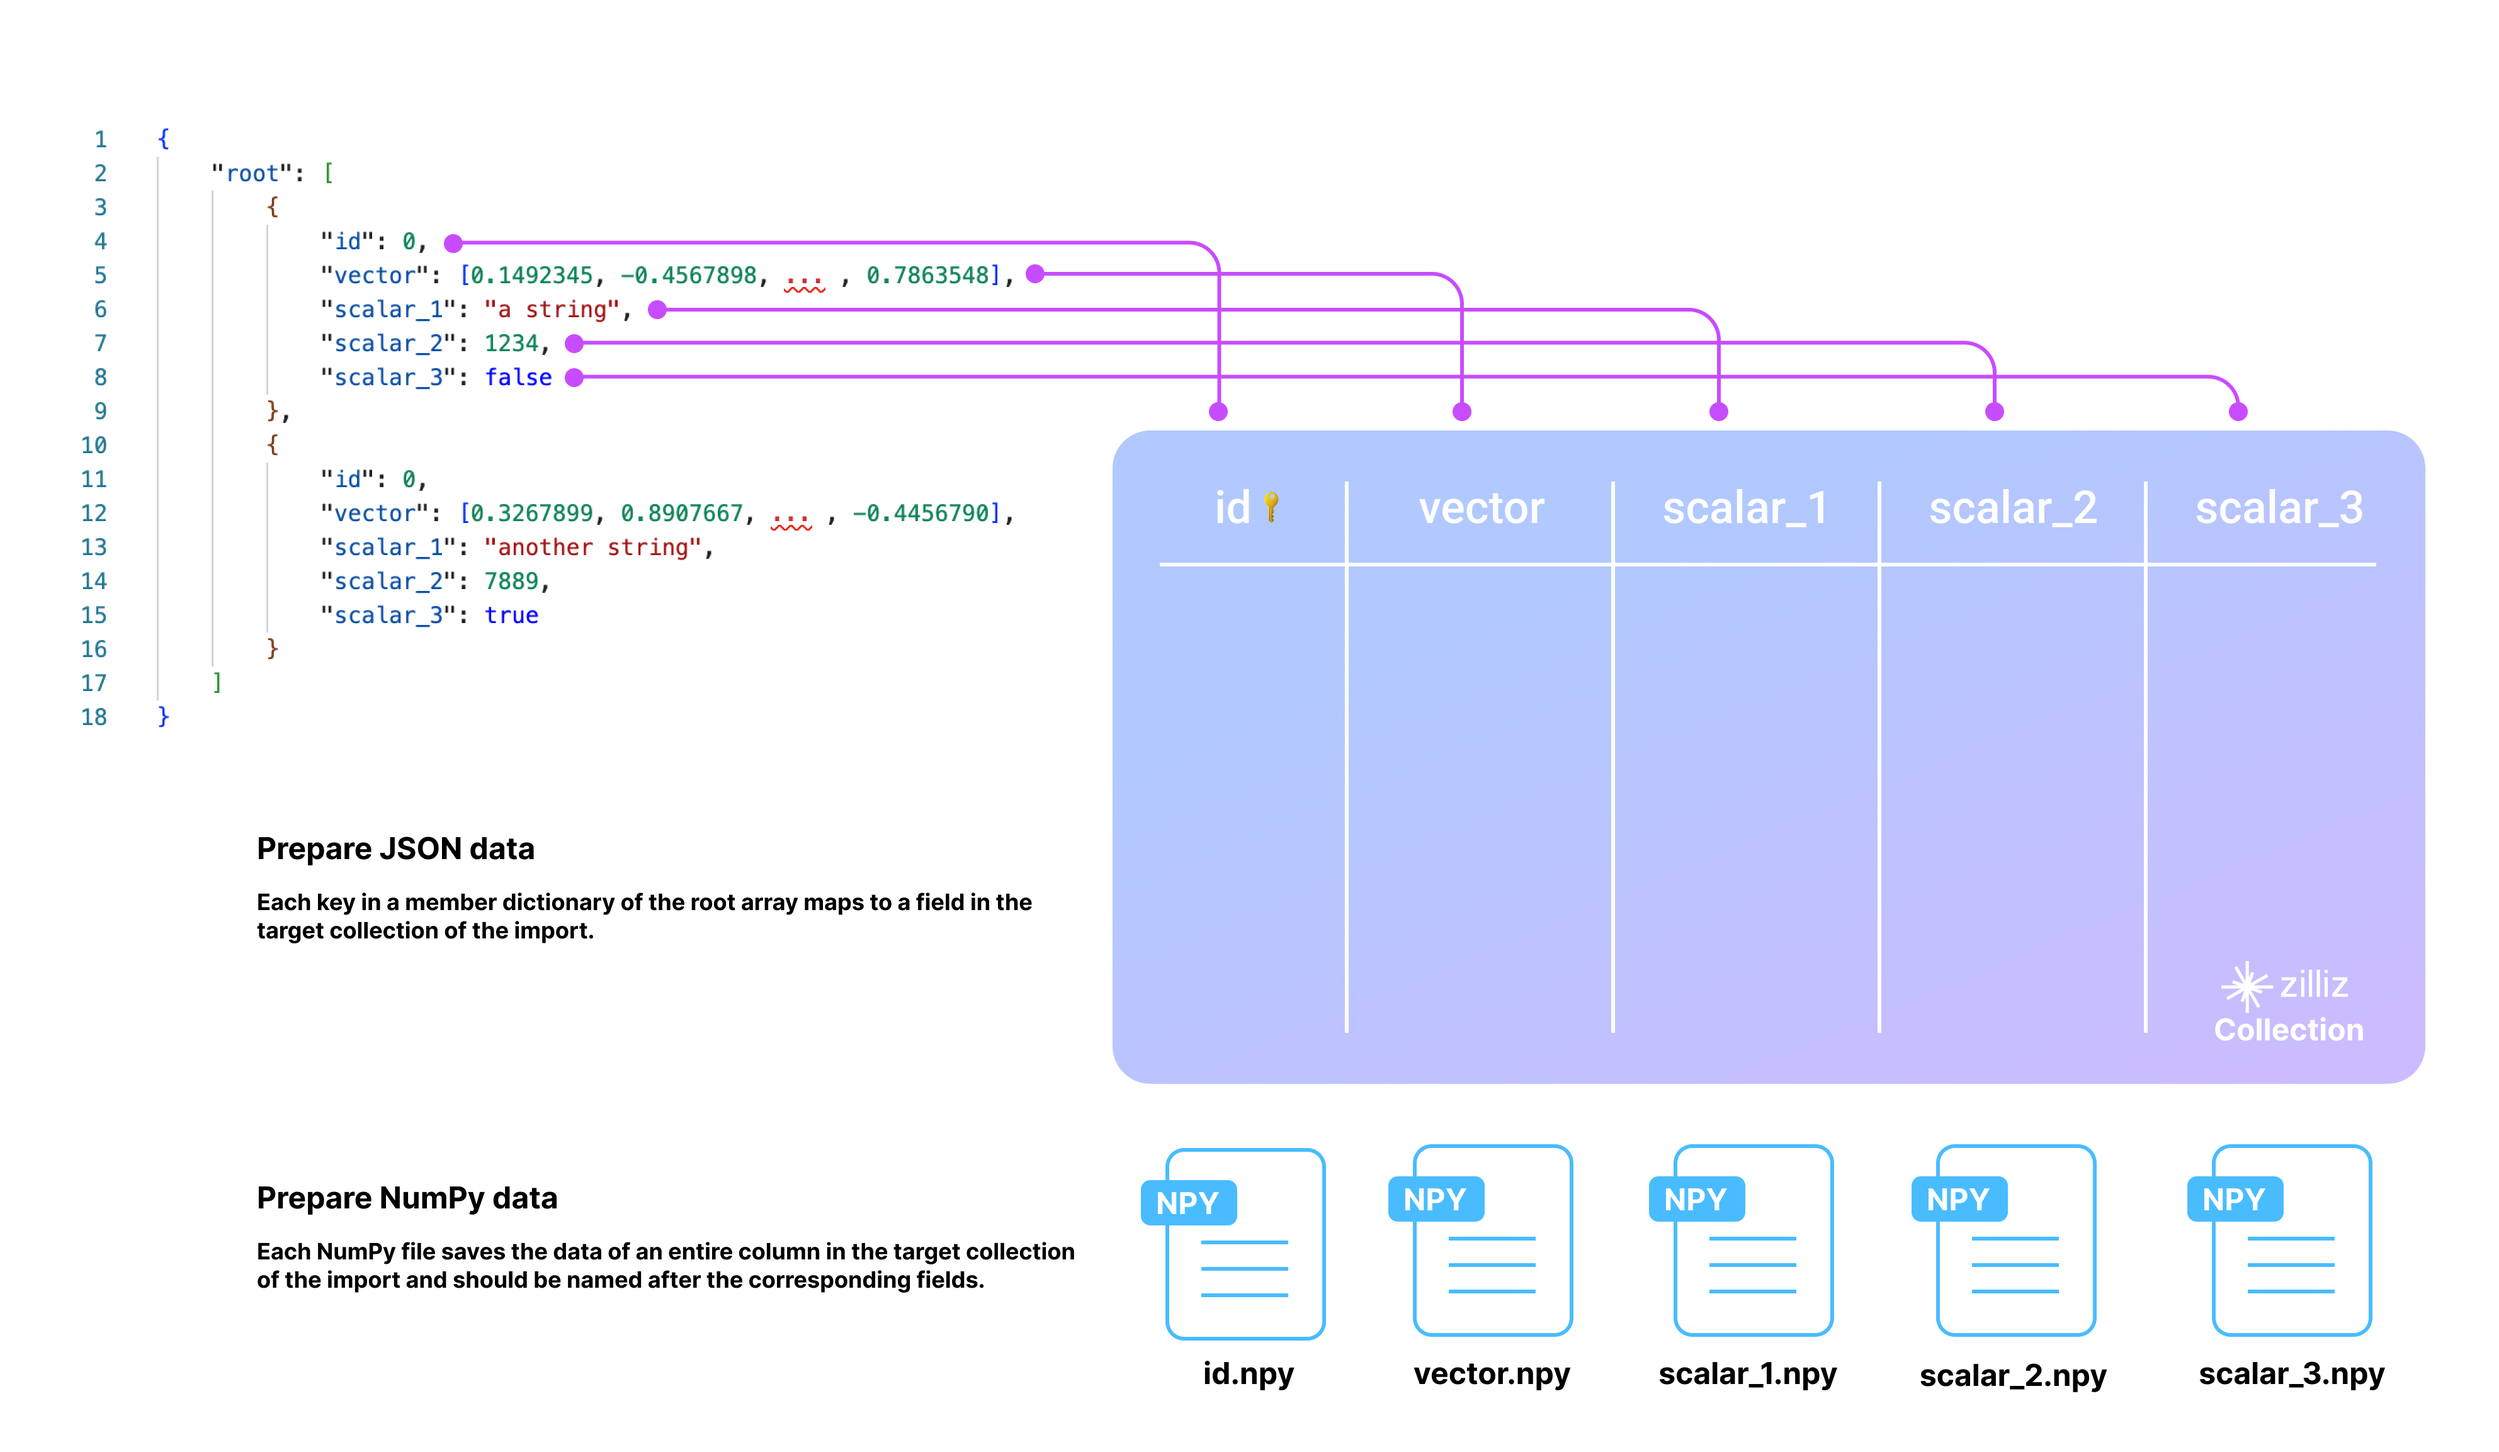
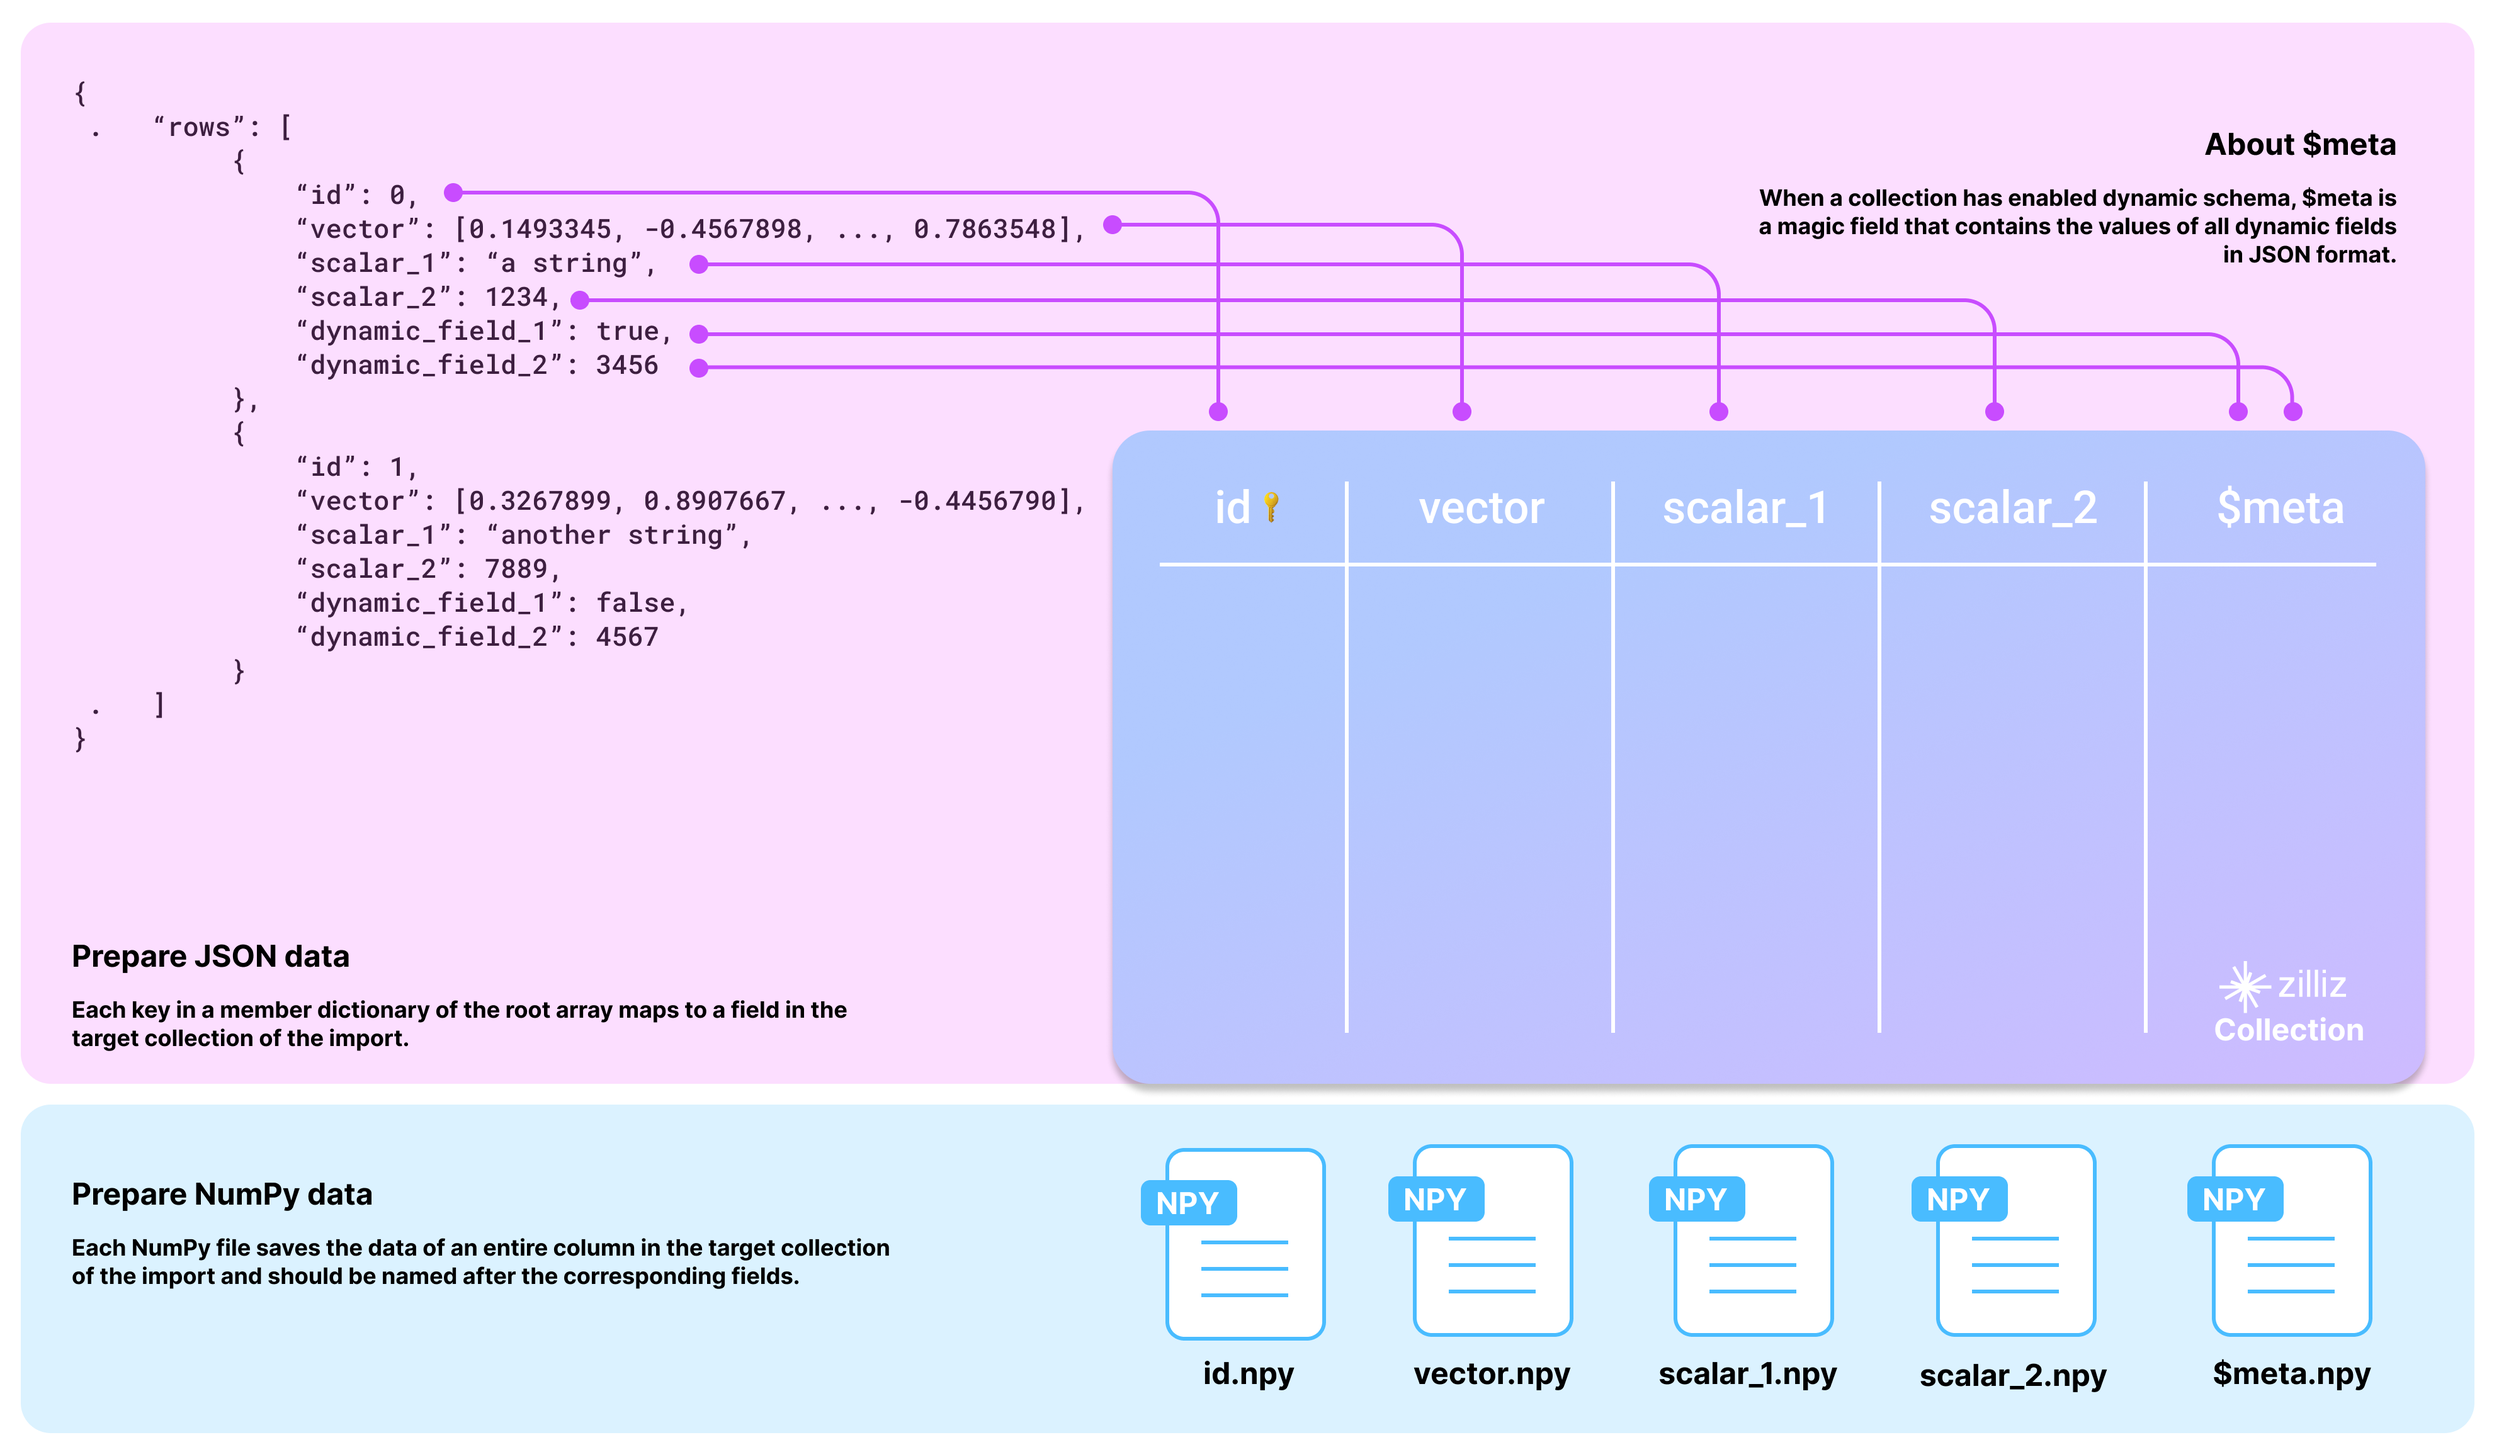
update docs

diff --git a/plugins/lark-docs/larkDocWriter.js b/plugins/lark-docs/larkDocWriter.js
@@ -426,11 +426,6 @@ class larkDocWriter {
     }
 
     __front_matters (slug, beta, notebook, sidebar_position=undefined) {
-        let displayed_sidebar = this.target === 'saas' ? "" : "displayed_sidebar: paasSidebar\n"
-        slug = this.target === 'saas' ? `/docs/${slug}` : `/docs/byoc/${slug}`
-        slug = slug.replace(/\/\//g, '/').replace(/^\//, '')
-        slug = slug === 'docs/' ? '' : slug
-        
         var sidebar_label = fs.readFileSync('plugins/lark-docs/meta/sidebarLables.json', {encoding: 'utf-8', flag: 'r'})
 
         if (sidebar_label[slug]) {
@@ -438,6 +433,11 @@ class larkDocWriter {
         } else {
             sidebar_label = ''
         }
+
+        let displayed_sidebar = this.target === 'saas' ? "" : "displayed_sidebar: paasSidebar\n"
+        slug = this.target === 'saas' ? `/docs/${slug}` : `/docs/byoc/${slug}`
+        slug = slug.replace(/\/\//g, '/').replace(/^\//, '')
+        slug = slug === 'docs/' ? '' : slug
 
         let front_matter = '---\n' + 
         displayed_sidebar +

diff --git a/docs/tutorials/data-import/import-data-via-restful-api.md b/docs/tutorials/data-import/import-data-via-restful-api.md
@@ -35,7 +35,7 @@ When preparing data files, consider the following based on the file format:
 - **JSON data**
     - Each import supports one JSON file, prohibiting simultaneous multiple JSON file uploads.
 
-    - The JSON file contains a key called "root" at the top level. This key's value is an array of dictionaries, where each dictionary represents an entity that needs to be imported. The keys in each dictionary should match the schema of the target collection.
+    - The JSON file contains a key called "rows" at the top level. This key's value is an array of dictionaries, where each dictionary represents an entity that needs to be imported. The keys in each dictionary should match the schema of the target collection.
 
     - If `autoId` is set to `true` on the primary key, do not include the primary key in the dictionary. Zilliz Cloud will generate the primary keys automatically.
 
